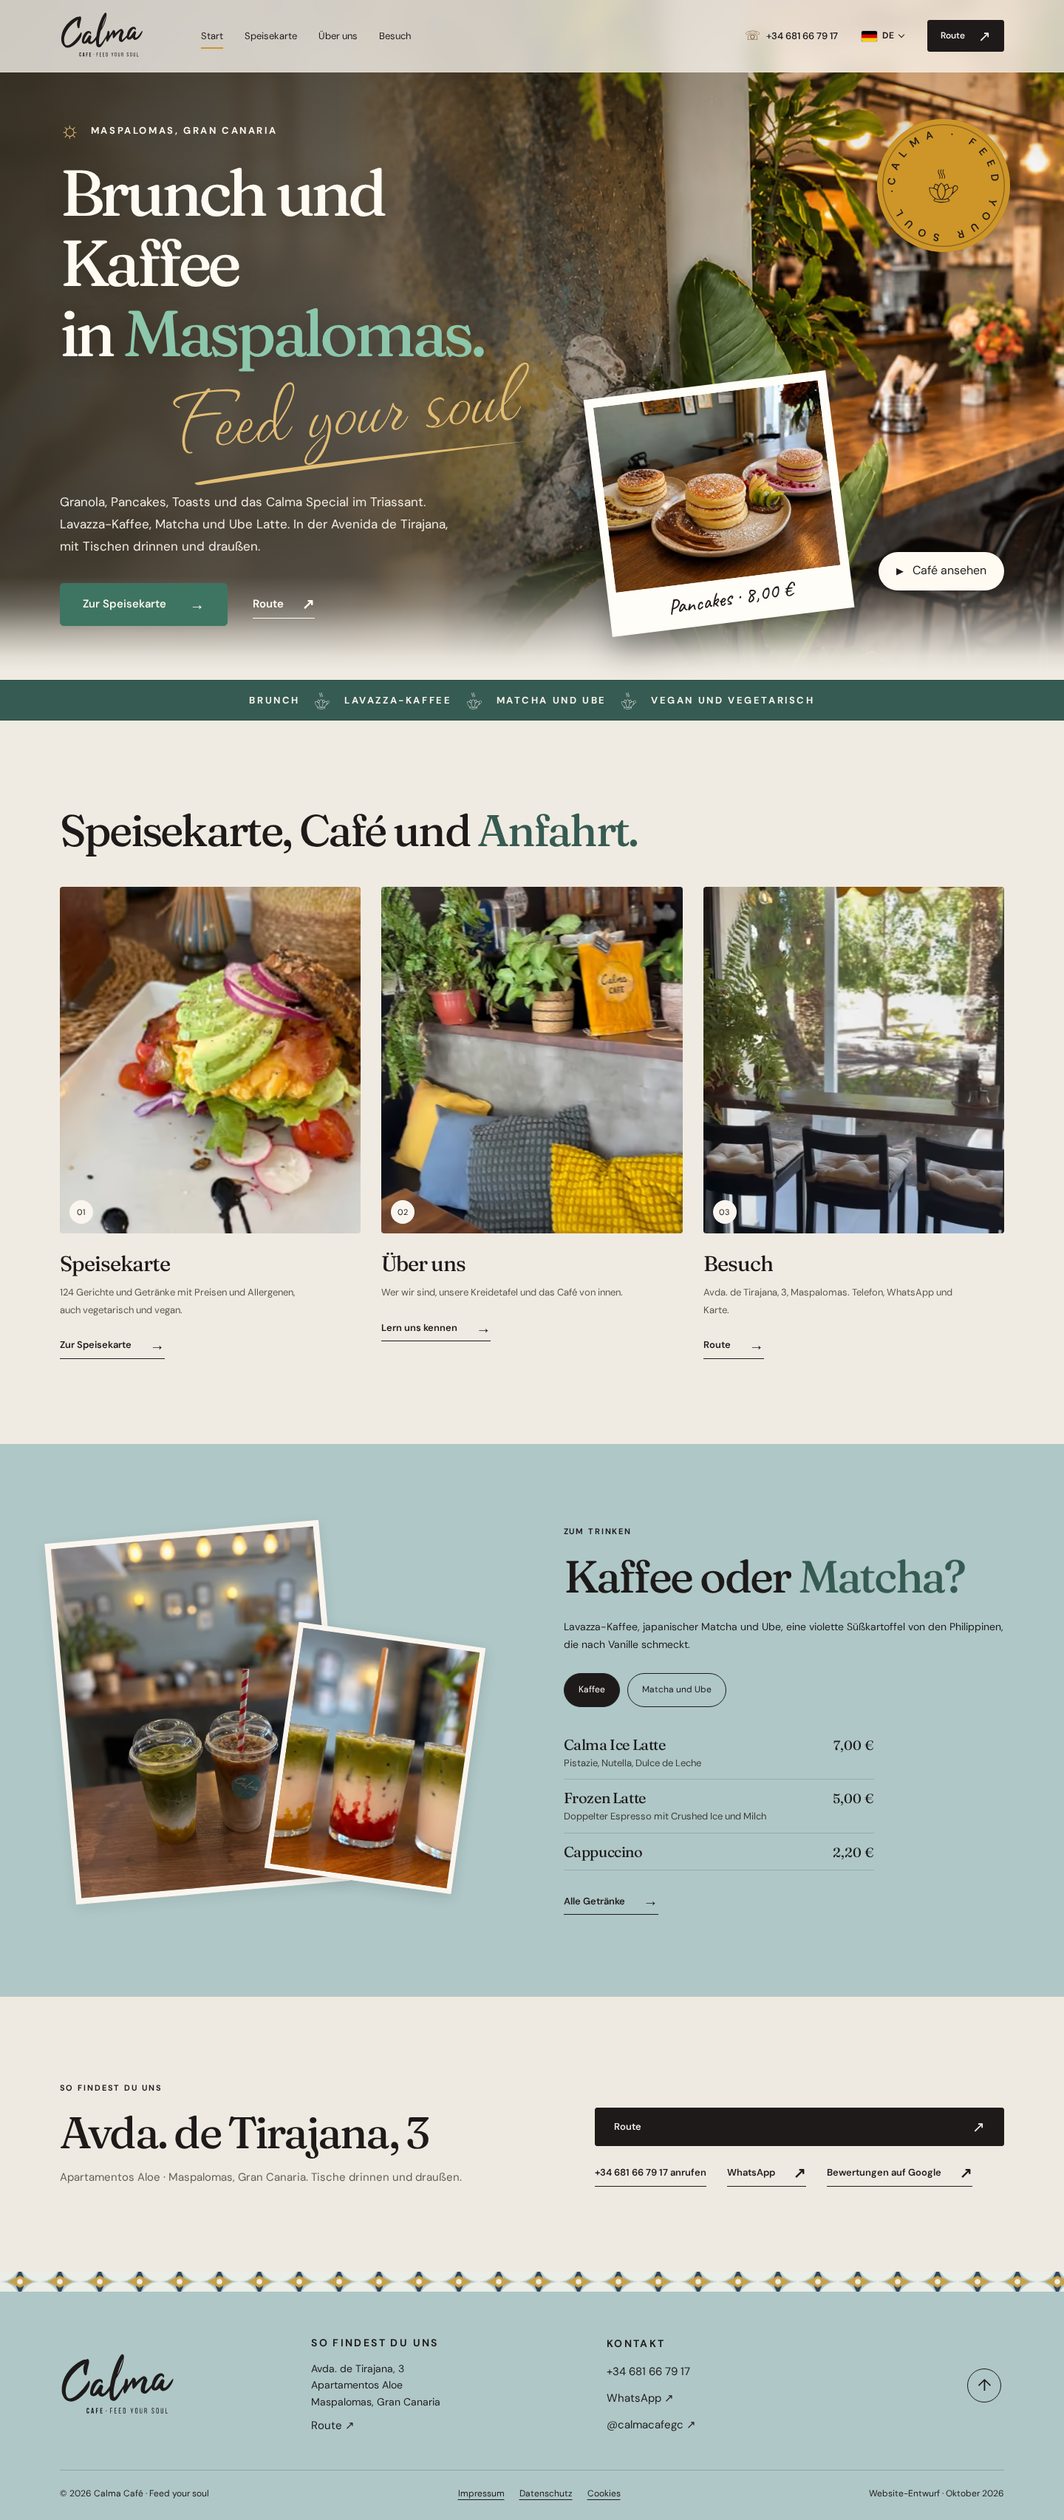
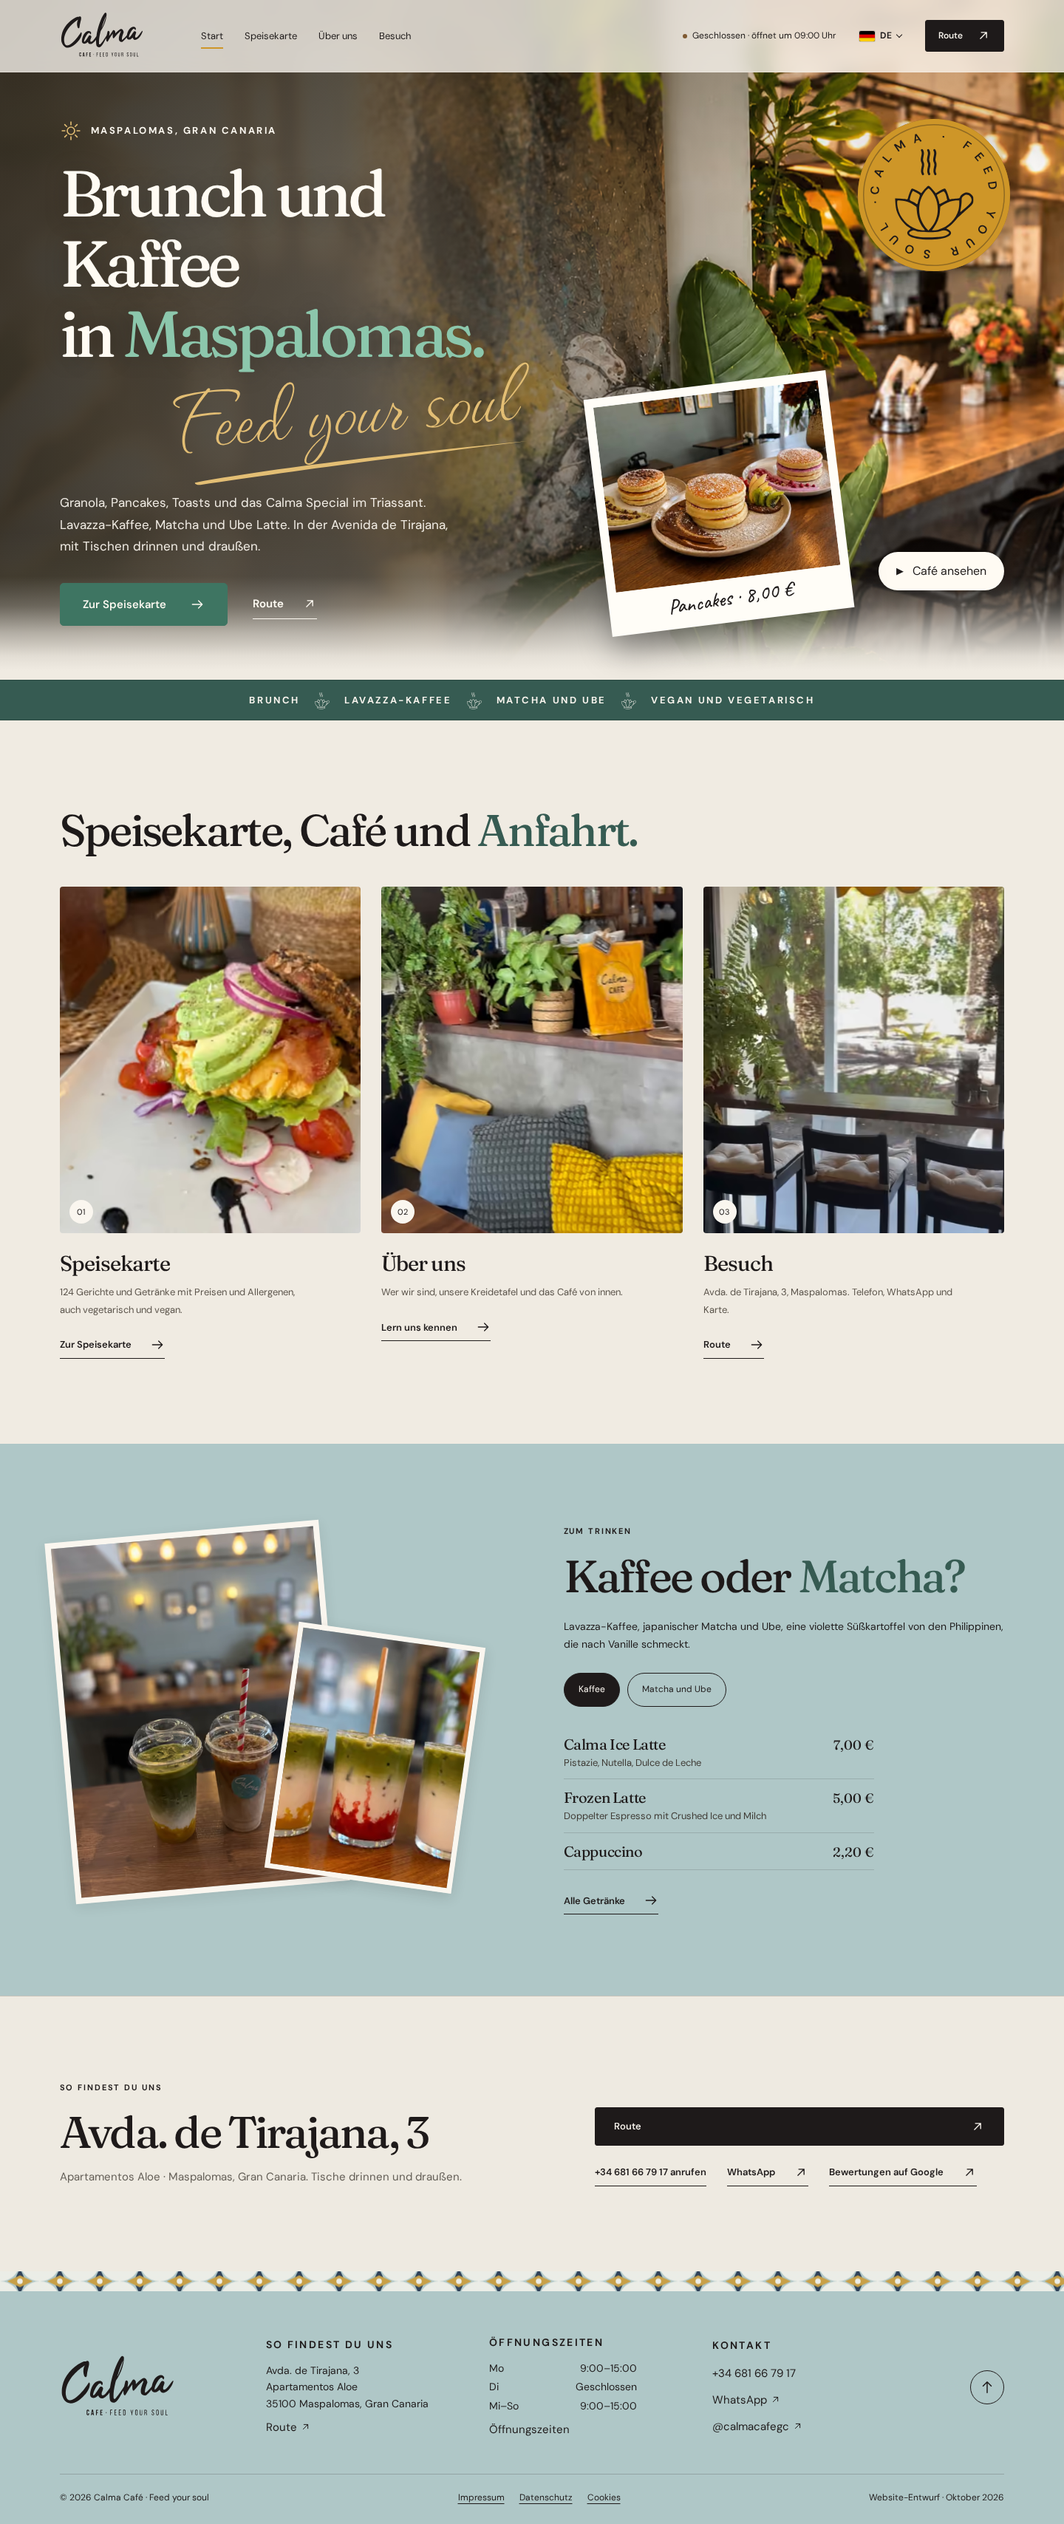
Ajusto horarios, indicador de abierto y cerrado y JSON-LD

diff --git a/src/i18n/ui.ts b/src/i18n/ui.ts
@@ -61,7 +61,7 @@ export interface UI {
     };
   };
   visit: {
-    title: string; description: string; eyebrow: string; h1: string; intro: string; address: string; hours: string; hoursLink: string;
+    title: string; description: string; eyebrow: string; h1: string; intro: string; address: string; hours: string; hoursLink: string; hoursView: string;
     contact: string; loadMap: string; mapNote: string; mapCaption: string; mapTitle: string; mapFallback: string;
   };  notFound: { title: string; h1: string; intro: string };
 }
@@ -138,7 +138,7 @@ export const ui: Record<Lang, UI> = {
       description: 'Calma Café está en la Avda. de Tirajana, 3 (Apartamentos Aloe), Maspalomas. Teléfono 681 66 79 17, WhatsApp y cómo llegar.',
       eyebrow: 'Visítanos', h1: 'Dónde <em>estamos.</em>',
       intro: 'Tenemos mesas dentro y fuera. Si quieres preguntar algo antes de venir, llámanos o escríbenos por WhatsApp.',
-      address: 'Dirección', hours: 'Horario', hoursLink: 'Consulta el horario en Google Maps', contact: 'Contacto',
+      address: 'Dirección', hours: 'Horario', hoursLink: 'Ver la ficha en Google Maps', hoursView: 'Ver horario', contact: 'Contacto',
       loadMap: 'Cargar mapa', mapNote: 'Al cargarlo conectarás con Google Maps.', mapCaption: 'Ilustración · el mapa de Google se carga solo si lo pides.',
       mapTitle: 'Calma Café en Google Maps', mapFallback: 'Si el mapa no aparece, usa el botón «Cómo llegar».',
     },
@@ -216,7 +216,7 @@ export const ui: Record<Lang, UI> = {
       description: 'Calma Café is at Avda. de Tirajana, 3 (Apartamentos Aloe), Maspalomas. Phone +34 681 66 79 17, WhatsApp and directions.',
       eyebrow: 'Visit us', h1: 'Where <em>to find us.</em>',
       intro: 'We have tables inside and out. If you have a question before you come, give us a call or send us a WhatsApp.',
-      address: 'Address', hours: 'Opening hours', hoursLink: 'Check our opening hours on Google Maps', contact: 'Contact',
+      address: 'Address', hours: 'Opening hours', hoursLink: 'See our Google Maps listing', hoursView: 'See hours', contact: 'Contact',
       loadMap: 'Load map', mapNote: 'Loading it connects you to Google Maps.', mapCaption: 'Illustration · the Google map only loads if you ask for it.',
       mapTitle: 'Calma Café on Google Maps', mapFallback: 'If the map does not appear, use the “Directions” button.',
     },
@@ -294,7 +294,7 @@ export const ui: Record<Lang, UI> = {
       description: 'Calma Café, Avda. de Tirajana 3 (Apartamentos Aloe), Maspalomas. Telefon +34 681 66 79 17, WhatsApp und Anfahrt.',
       eyebrow: 'Besuch', h1: 'So findest du <em>uns.</em>',
       intro: 'Wir haben Tische drinnen und draußen. Wenn du vorher eine Frage hast, ruf uns an oder schreib uns per WhatsApp.',
-      address: 'Adresse', hours: 'Öffnungszeiten', hoursLink: 'Öffnungszeiten auf Google Maps ansehen', contact: 'Kontakt',
+      address: 'Adresse', hours: 'Öffnungszeiten', hoursLink: 'Eintrag auf Google Maps ansehen', hoursView: 'Öffnungszeiten', contact: 'Kontakt',
       loadMap: 'Karte laden', mapNote: 'Beim Laden wirst du mit Google Maps verbunden.', mapCaption: 'Illustration · die Google-Karte lädt nur, wenn du es möchtest.',
       mapTitle: 'Calma Café auf Google Maps', mapFallback: 'Wenn die Karte nicht erscheint, nutze die Schaltfläche „Route“.',
     },
@@ -372,7 +372,7 @@ export const ui: Record<Lang, UI> = {
       description: 'Calma Café zit aan de Avda. de Tirajana 3 (Apartamentos Aloe), Maspalomas. Telefoon +34 681 66 79 17, WhatsApp en routebeschrijving.',
       eyebrow: 'Bezoek', h1: 'Waar je ons <em>vindt.</em>',
       intro: 'We hebben tafels binnen en buiten. Heb je vooraf een vraag? Bel ons of stuur een WhatsApp.',
-      address: 'Adres', hours: 'Openingstijden', hoursLink: 'Bekijk de openingstijden op Google Maps', contact: 'Contact',
+      address: 'Adres', hours: 'Openingstijden', hoursLink: 'Bekijk ons Google Maps-profiel', hoursView: 'Openingstijden', contact: 'Contact',
       loadMap: 'Kaart laden', mapNote: 'Als je de kaart laadt, maak je verbinding met Google Maps.', mapCaption: 'Illustratie · de kaart van Google laadt alleen als je dat wilt.',
       mapTitle: 'Calma Café op Google Maps', mapFallback: 'Verschijnt de kaart niet? Gebruik dan de knop ‘Route’.',
     },

diff --git a/src/styles/global.css b/src/styles/global.css
@@ -485,3 +485,18 @@ body[data-page=inicio] .site-header{background:rgba(250,246,239,.78);-webkit-bac
   .alma-card{padding:48px 20px 42px}
   .alma-word{font-size:clamp(58px,19vw,84px)}
 }
+
+/* Horario completo: Visítanos y pie */
+.visit-info dd .hours-table{display:table;width:100%;max-width:340px;border-collapse:collapse;font-size:14px}
+.hours-table th,.hours-table td{padding:5px 0;text-align:left;font-weight:400;border-bottom:1px solid var(--line)}
+.hours-table td{text-align:right;color:var(--muted);font-variant-numeric:tabular-nums}
+.hours-table tr.is-today th,.hours-table tr.is-today td{font-weight:650;color:var(--pizarra)}
+.visit-info dd .hours-kitchen{display:block;margin:10px 0 14px;font-size:13px;color:var(--muted)}
+.footer-hours dl{margin:0;display:flex;flex-direction:column;gap:3px;font-size:14px;line-height:1.6}
+.footer-hours dl div{display:flex;gap:12px;justify-content:space-between;max-width:200px}
+.footer-hours dt{text-transform:capitalize}
+.footer-hours dd{margin:0;font-variant-numeric:tabular-nums}
+.footer-top{grid-template-columns:1fr 1.1fr 1.1fr 1.3fr 46px}
+@media(max-width:999px){.footer-top{grid-template-columns:repeat(3,1fr);gap:28px 20px}.footer-top>div:nth-of-type(3){grid-column:span 2}}
+@media(max-width:699px){.footer-top{grid-template-columns:1fr 1fr}.footer-top>div:nth-of-type(3){grid-column:auto}}
+.hours-table th{text-transform:capitalize}

diff --git a/src/scripts/site.ts b/src/scripts/site.ts
@@ -37,9 +37,12 @@ if (langSwitch) {
 // Los [data-hours] solo se pintan cuando el horario real está confirmado (negocio.json).
 if (negocio.horario.confirmado && document.querySelector('[data-hours]')) {
   const updateHours = () => {
-    const result = getOpeningStatus(new Date(), negocio.horario.ejemplo, negocio.zonaHoraria);
+    const result = getOpeningStatus(new Date(), negocio.horario.semana, negocio.zonaHoraria, document.documentElement.lang);
     document.querySelectorAll('[data-hours]').forEach(el => { el.textContent = result.text; });
     document.querySelector('.status-dot')?.classList.toggle('is-open', result.open);
+    const today = new Intl.DateTimeFormat('en-GB', { timeZone: negocio.zonaHoraria, weekday: 'short' }).format(new Date());
+    const index = ['Sun', 'Mon', 'Tue', 'Wed', 'Thu', 'Fri', 'Sat'].indexOf(today);
+    document.querySelectorAll('.hours-table tr').forEach(row => row.classList.toggle('is-today', Number((row as HTMLElement).dataset.day) === index));
   };
   updateHours();
   setInterval(updateHours, 60_000);

diff --git a/src/styles/carta.css b/src/styles/carta.css
@@ -100,8 +100,8 @@ button.dish-name:hover,.dish.is-previewed button.dish-name{background-size:100% 
   .carta-feature-arch{aspect-ratio:4/3.4}
 }
 @media(max-width:699px){
-  /* Sin la franja de horario la cabecera móvil mide 78 px; con ella, 104 px */
-  .carta-body{--header-h:78px;--bar-h:96px}
+  /* Sin la franja de horario la cabecera móvil mide 78 px; con ella, 107 px (la franja está activa con el horario confirmado) */
+  .carta-body{--header-h:107px;--bar-h:96px}
   .carta-hero{padding-bottom:30px}
   .carta-hero-grid{grid-template-columns:1fr;gap:8px}
   .carta-hero-text{font-size:14px}

diff --git a/docs/PENDIENTES.md b/docs/PENDIENTES.md
@@ -2,12 +2,12 @@
 
 Todos estos puntos también están marcados con `TODO` o `VERIFICAR` en los JSON. La demo no debe presentar los marcadores como información confirmada.
 
-- **Ubicación:** la web usa la dirección de su carta digital (Avda. de Tirajana, 3, Apartamentos Aloe, Maspalomas). Falta confirmar el código postal y aportar el enlace de la ficha oficial de Google y las coordenadas. «Cómo llegar» abre la misma búsqueda por nombre y dirección que usa su carta digital.
+- **Ubicación:** resuelto con la ficha de Google (15 de octubre de 2026): Avda. de Tirajana, 3, Apartamentos Aloe, 35100 Maspalomas, coordenadas 27,75221 / −15,5774626 y enlace de la ficha. Queda pendiente el dominio definitivo: el JSON-LD usa ahora la URL de GitHub Pages.
 - **Contacto:** la web usa el teléfono y el WhatsApp de su carta digital (681 66 79 17). Confirmar si atienden por WhatsApp, el correo y si aceptan reservas.
-- **Horario:** no se muestra. Webs de terceros (Restaurant Guru, Tripadvisor) indican de 9:00 a 15:00 con el martes cerrado, sin coincidir en el domingo; no se usan como fuente. Pedir apertura por día, descansos, horario de cocina, festivos y temporadas. Al tenerlo, rellenar `horario.ejemplo`, cambiar `horario.texto` y activar `horario.confirmado` para que aparezca el indicador «Abierto/Cerrado».
+- **Horario:** resuelto con la ficha de Google (15 de octubre de 2026): lunes y miércoles a domingo de 9:00 a 15:00, martes cerrado, cocina de 9:00 a 14:30. Se muestra en Visítanos, el pie, el indicador «Abierto/Cerrado» y el JSON-LD. Pendiente: festivos y temporadas, y confirmar si la cocina cierra igual los domingos. La ficha de Google muestra 4,8 (909 reseñas) y 10–20 € por persona; no se publican hasta verificar nota y tres reseñas reales (ver «Google»).
 - **Carta:** importada de la carta digital oficial el 7 de octubre de 2026. Confirmar que los precios incluyen IGIC. Aclarar el alcance de «¡Toda la carta se puede hacer sin gluten!»: en la carta digital solo aparece en los menús Vegetariano y Vegano, y la web lo muestra solo ahí; preguntar también por la contaminación cruzada. Completar los alérgenos de los platos que no los indican (solo 30 de 124 los tienen). Se corrigió únicamente la forma; revisar sobre todo: «Cava piccolo 20ml» → «20 cl», «Agua 0.33ml» → «33 cl», «Pan integral o bimbo» → «de molde» y el plato vegetariano «Vegetariano Mozarella, Pesto» → «Mozzarella y pesto». La etiqueta «Agotado» de la carta digital no se reproduce: cambia a diario. Los antiguos favoritos (Calma Roastbeef, Calma Gambita, Berry Pancake Dreams, tortitas con fruta) y el matcha con mango («Sunshine in a glass») no figuran en la carta oficial, así que ya no se destacan. Sus fotos siguen en `public/media/` por si son de temporada.
 - **Google:** la web no muestra ninguna nota ni reseña; solo enlaza a Google. Para añadir el bloque de reseñas: nota y total comprobados en la ficha y tres reseñas reales con autor, fecha, enlace y permiso. Como referencia externa, Tripadvisor muestra 4,8/5 (114 opiniones) y Restaurant Guru 4,9/5.
-- **Textos:** aprobar el tono y el contenido en español, inglés, alemán y neerlandés. Conviene que una persona nativa revise el alemán y el neerlandés (la pareja puede revisar el neerlandés) y confirmar si se tutea en alemán. Decidir si quieren también noruego. Si se activa el indicador «Abierto/Cerrado», `src/lib/hours.mjs` solo tiene textos en español: hay que traducirlos antes de mostrarlo en las otras versiones. Los textos se han reescrito solo con datos verificables (carta, dirección y lo que se ve en las fotos). La historia de Calma (Guro, apertura el 6 de septiembre de 2019 y el paso de «Alma» a «Calma») viene del cliente: confirmar que Guro está de acuerdo en aparecer con su nombre y revisar las traducciones. Preguntas para completar la página Calma: nombres de la pareja y qué hace cada uno, por qué Gran Canaria, origen de «Feed your soul», quién escribe la pizarra, quién pintó los cuadros, qué es el tablero de notas, plato estrella, terraza, aparcamiento, perros, idiomas del equipo y procedencia de los clientes. Una foto de los dueños mejoraría mucho la cabecera de Calma.
+- **Textos:** aprobar el tono y el contenido en español, inglés, alemán y neerlandés. Conviene que una persona nativa revise el alemán y el neerlandés (la pareja puede revisar el neerlandés) y confirmar si se tutea en alemán. Decidir si quieren también noruego. Los textos del indicador «Abierto/Cerrado» y de los días (`src/lib/hours.mjs`) están en los cuatro idiomas: que los revise también una persona nativa. Los textos se han reescrito solo con datos verificables (carta, dirección y lo que se ve en las fotos). La historia de Calma (Guro, apertura el 6 de septiembre de 2019 y el paso de «Alma» a «Calma») viene del cliente: confirmar que Guro está de acuerdo en aparecer con su nombre y revisar las traducciones. Preguntas para completar la página Calma: nombres de la pareja y qué hace cada uno, por qué Gran Canaria, origen de «Feed your soul», quién escribe la pizarra, quién pintó los cuadros, qué es el tablero de notas, plato estrella, terraza, aparcamiento, perros, idiomas del equipo y procedencia de los clientes. Una foto de los dueños mejoraría mucho la cabecera de Calma.
 - **Fotos para «Nuestra historia» (página Calma):** la sección no lleva fotos reales; hay que hacerlas en el local con esta información. Ideas: Guro en la barra o en la cocina, la puerta y el rótulo, bocetos o primeras versiones del logo con «Alma Café» si los conservan, y alguna foto de la apertura de 2019. Pueden acompañar al sello con la fecha y a la tarjeta «Alma → Calma» o sustituirlos.
 - **Imagen del hero:** «Café cálido con plantas tropicales y barra de madera» (copiada sin modificar a `assets/originals/hero-fondo.png`) muestra el local, pero no trae metadatos de autor ni de cámara. Confirmar quién la hizo, si está retocada o generada con IA y si se puede usar. Si está generada, hay que decirlo al cliente y corregir la frase del README. Sale además un cuadro de un tercero en primer plano.
 - **Derechos y marca:** aprobar la reproducción de las fotografías y del vídeo aportados y validar la extracción del logo; si existe un archivo maestro, sustituir los derivados por él.

diff --git a/README.md b/README.md
@@ -35,7 +35,7 @@ Abre **http://localhost:4321**. `npm run build` comprueba tipos y genera `dist/`
 
 `src/data/negocio.json` centraliza el negocio, contacto, mapa, reseñas y horario; `src/data/carta.json` es la **carta oficial** importada de [calma.buenacarta.com](https://calma.buenacarta.com/) con `npm run carta`: cuatro menús (Carta, Vegetariano, Vegano y Bebidas), 124 platos con precio, descripción, extras, alérgenos y etiquetas de dieta, y las 86 fotos de platos optimizadas en `public/media/carta/` (los originales se guardan en `assets/originals/carta/`, fuera de git). El script corrige solo la forma (acentos, espacios, unidades) y nunca precios ni ingredientes; hay que volver a ejecutarlo cuando el local cambie su carta. **Un plato sin alérgenos listados no significa que no los tenga:** la página lo advierte.
 
-Dirección, teléfono y WhatsApp vienen de la carta digital oficial del local. «Cómo llegar» usa el mismo enlace de Google Maps que esa carta (nombre y dirección) y «Llamar» abre `tel:+34681667917`. El horario no está confirmado: no se muestra ningún horario ni el indicador «Abierto/Cerrado», y Visítanos remite a Google Maps. El indicador ya está programado (`Intl.DateTimeFormat` en **Atlantic/Canary**) y aparece solo al poner `horario.confirmado` a `true` en `negocio.json`. Tampoco se muestran la nota ni las reseñas de Google hasta verificarlas. Inicio, la carta y la sección de bebidas solo destacan platos que están en la carta oficial. La nota «¡Toda la carta se puede hacer sin gluten!» aparece únicamente en los menús Vegetariano y Vegano, como en la carta original.
+Dirección, teléfono y WhatsApp vienen de la carta digital oficial del local; el código postal (35100), las coordenadas, el horario y el enlace de la ficha vienen de su **ficha de Google** (15 de octubre de 2026). «Cómo llegar» y los enlaces de horario abren esa ficha, y «Llamar» abre `tel:+34681667917`. El horario (lunes y de miércoles a domingo de 9:00 a 15:00, martes cerrado; cocina de 9:00 a 14:30) vive en `horario.semana` y `horario.cocina` de `negocio.json` y alimenta Visítanos (tabla por días, con el día de hoy resaltado), el pie, el indicador «Abierto/Cerrado» de la cabecera (`Intl.DateTimeFormat` en **Atlantic/Canary**, con textos en los cuatro idiomas en `src/lib/hours.mjs`) y el JSON-LD. El JSON-LD (`src/lib/schema.mjs`, tipo `CafeOrCoffeeShop`) incluye dirección con código postal, `geo`, `openingHoursSpecification`, `hasMenu`, `hasMap`, y la ficha en `sameAs`. Tampoco se muestran la nota ni las reseñas de Google hasta verificarlas. Inicio, la carta y la sección de bebidas solo destacan platos que están en la carta oficial. La nota «¡Toda la carta se puede hacer sin gluten!» aparece únicamente en los menús Vegetariano y Vegano, como en la carta original.
 
 ## Idiomas
 
@@ -53,7 +53,7 @@ Páginas legales, SEO completo, dominio, sitemap y robots corresponden a Fase 3.
 Los originales se localizaron en `/home/josem/Escritorio` y se **copiaron sin modificar** a `assets/originals/`. Los derivados listos para servir están incluidos en `public/`. Para regenerarlos se necesitan los originales, FFmpeg/FFprobe en PATH y `npm run assets`; no es necesario regenerar para arrancar o compilar.
 
 ```bash
-npm test                         # Horario, caligrafía y traducciones completas de la carta
+npm test                         # Horario, datos estructurados, caligrafía y traducciones completas de la carta
 npx playwright install chromium # Solo para QA
 npm run qa                      # Servidor local activo; capturas + axe + interacción + sin marcadores visibles
 ```
